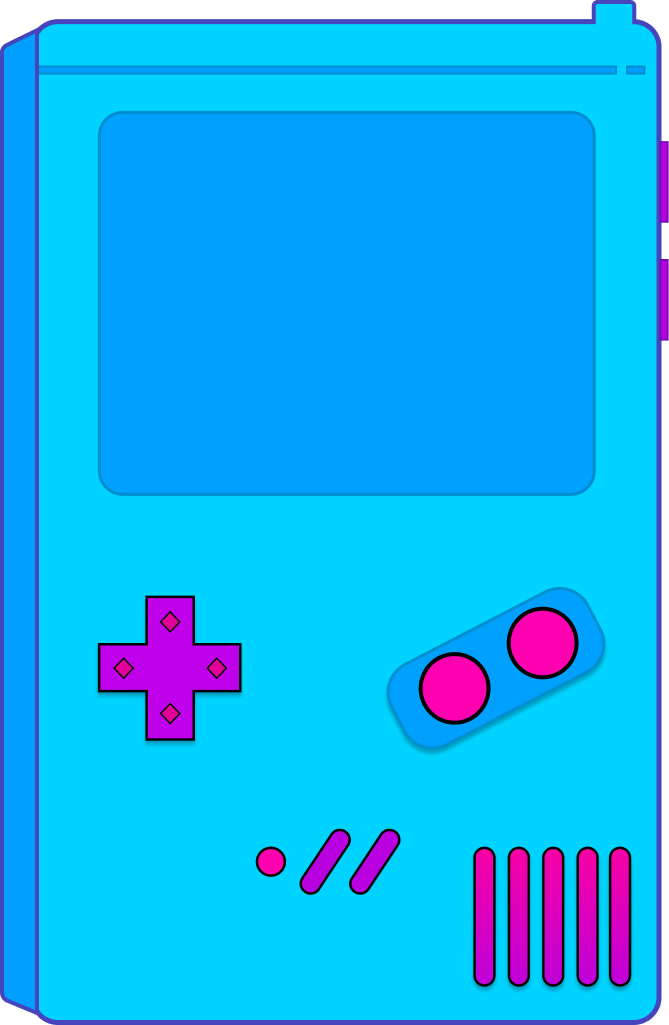
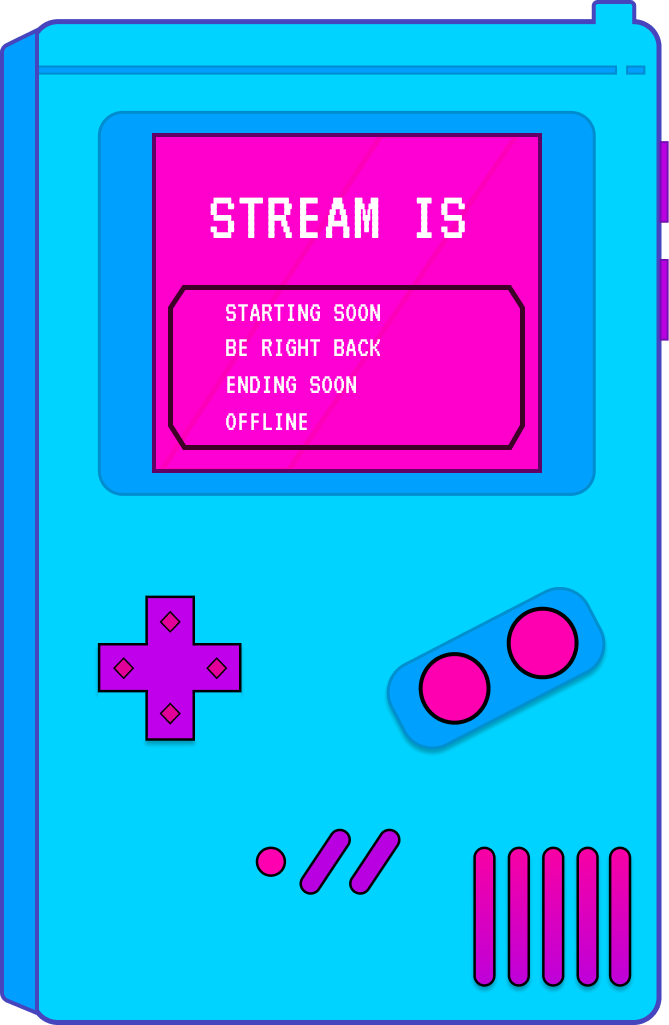
final Gameboy scene

Changed region(s): [[0.2093, 0.1249, 0.8072, 0.4683], [0.299, 0.6556, 0.3587, 0.6868], [0.1495, 0.6556, 0.2093, 0.6868]]

diff --git a/IntroScene/src/style.css b/IntroScene/src/style.css
@@ -28,12 +28,21 @@ body{
   to   { transform: translateY(40px)}
 }
 
-#screen{
+#cursor{
   position: absolute;
-  top: 10vh;
-  left: 20vw;
-  width: 50px;
-  height: 50px;
-  border: solid black 2px;
-  background-color: brown;
+  top: 25.5vh;
+  left: 8.45vw;
+  height : 18px;
+  width : 12px;
+  animation: 0.75s linear infinite alternate blink_cursor;
 }
+
+@keyframes blink_cursor {
+  0%,50% {
+    opacity: 0;
+  }
+  51%,100% {
+    opacity: 1;
+  }
+}
+

diff --git a/IntroScene/src/index.html b/IntroScene/src/index.html
@@ -10,7 +10,7 @@
 
 <body>
   <div id="gameboy">
-    <div id="screen"></div>
+    <img id="cursor" src="../assets/triangle.png" alt="cursor to select option">
     <img src="../assets/Gameboy.png" alt="Gameboy" width="550px">
   </div>
 </body>
